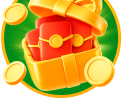
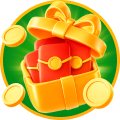
原型：文字样式（字号/粗细/颜色）、布局参数自定义、底部导航中间大图标补全
Claude-Session: https://claude.ai/code/session_01DzgfanUjv3RiG8JrrSj5xx

diff --git a/prototype/js/editor.js b/prototype/js/editor.js
@@ -293,14 +293,14 @@
       if (baseName(id) === 'gamemenu' && D.m.gamemenu.style === 'side' && nx && baseName(nx) === 'gamecards') { body += `<div class="cl-games">${modWrap(id, modHtml(id))}${modWrap(nx, modHtml(nx))}</div>`; k++; continue; }
       body += modWrap(id, modHtml(id));
     }
-    const topPx = D.hidden.topbar ? 0 : D.tb.h / 2, bnPx = D.hidden.bottomnav ? 0 : BNAV_PX[D.m.bottomnav.h] || 55;
+    const topPx = D.hidden.topbar ? 0 : D.tb.h / 2, bnPx = D.hidden.bottomnav ? 0 : BNAV_PX[D.m.bottomnav.h] || (+D.m.bottomnav.h / 2) || 55;
     const top = D.hidden.topbar ? '' : modWrap('topbar', h5Topbar(), { top: true });
-    const bnav = D.hidden.bottomnav ? '' : `<div class="h5-bnav mod ${window.MP.bnavCls()} ${E.sel === 'bottomnav' ? 'is-sel' : ''}" data-mod="bottomnav" data-act="selMod" data-arg="bottomnav">${window.MP.bnav()}${E.sel === 'bottomnav' && !mobileEd() ? `<span class="sel-label">${esc(modName('bottomnav'))}</span>${selToolbar('bottomnav')}` : ''}${window.AD ? window.AD.modMask('bottomnav') : ''}</div>`;
+    const bnav = D.hidden.bottomnav ? '' : `<div class="h5-bnav mod ${window.MP.bnavCls()} ${E.sel === 'bottomnav' ? 'is-sel' : ''}" style="height:${bnPx}px" data-mod="bottomnav" data-act="selMod" data-arg="bottomnav">${window.MP.bnav()}${E.sel === 'bottomnav' && !mobileEd() ? `<span class="sel-label">${esc(modName('bottomnav'))}</span>${selToolbar('bottomnav')}` : ''}${window.AD ? window.AD.modMask('bottomnav') : ''}</div>`;
     const side = E.h5side && !D.hidden.sidebar ? `<div class="h5-side ${D.side}" data-act="h5SideClose" data-stop>${window.MP.side()}${window.AD ? window.AD.modMask('sidebar') : ''}</div>` : '';
     // ED-13：画布按页面高度显示，1334 处画首屏线
     const minBody = Math.max(0, D.height / 2 - topPx - bnPx);
     const fold = opts.noFold ? '' : `<div class="h5-fold" style="top:${667}px"><span>${t('ed/fold-line')}</span></div>`;
-    return `<div class="h5 ${D.iconStyle ? 'ics-' + D.iconStyle : ''}" style="${themeStyle()}${opts.style || ''}">${top}<div class="h5-body" ${opts.measure ? 'data-measure' : ''} data-top="${topPx}" data-bn="${bnPx}" style="min-height:${minBody}px">${body}</div>${bnav}${fold}${side}</div>`;
+    return `<div class="h5 ${D.iconStyle ? 'ics-' + D.iconStyle : ''}" style="${themeStyle()}${opts.style || ''}">${txtCss()}${top}<div class="h5-body" ${opts.measure ? 'data-measure' : ''} data-top="${topPx}" data-bn="${bnPx}" style="min-height:${minBody}px">${body}</div>${bnav}${fold}${side}</div>`;
   }
   // 内容高度（750 稿单位）：渲染后量一次，变了再渲染
   window.AFTER_RENDER.push(() => {
@@ -432,14 +432,27 @@
         ${B.slides.length < 5 ? `<button class="btn btn-outline btn-sm" style="margin-top:8px" data-act="addSlide">${ic('plus', 'ic-16')}${t('ed/add-slide')}</button>` : ''}<div class="p-note">${t('mp/drag-hint')}</div></div>
       <div class="p-sec"><div class="lab">${t('ed/indicator')}</div><div class="ind-opts">${IND.map((v) => `<button class="ind-opt ${indOf(B.ind) === v ? 'is-on' : ''}" data-act="bannerInd" data-arg="${v}"><span class="ind-prev">${v === 'none' ? `<small>${t('ed/ind-none')}</small>` : `<span class="h5-ind ${v}">${[0, 1, 2, 3, 4].map((k) => `<i class="${k === 2 ? 'on' : ''}"></i>`).join('')}</span>`}</span></button>`).join('')}</div><div class="p-note">${t('ed/ind-note')}</div></div>`;
   }
-  function pxSeg(vals, cur, act, labels) {
-    return `${segBtns(vals.map((v, i) => ({ v: String(v), label: labels ? labels[i] : v + ' px' })), String(cur), act)}`;
+  function pxSeg(vals, cur, act, labels, rng) {
+    return `${segBtns(vals.map((v, i) => ({ v: String(v), label: labels ? labels[i] : v + ' px' })), String(cur), act)}${pxCustom(vals, cur, act, rng)}`;
   }
+  // 布局参数的「自定义」（Waydon 2026-11-26）：档位之外可直接输入数值，回车或失焦生效，越界自动夹到范围内
+  function pxCustom(vals, cur, act, rng) {
+    const [min, max, unit] = rng || [0, 200, 'px'];
+    const on = !vals.map(Number).includes(+cur);
+    return `<label class="px-custom ${on ? 'is-on' : ''}"><span>${t('ed/custom')}</span><input class="input" type="number" inputmode="numeric" min="${min}" max="${max}" step="1" value="${esc(String(cur))}" data-pxact="${act}" data-min="${min}" data-max="${max}"><em>${unit}</em><small>${min}–${max}</small></label>`;
+  }
+  document.addEventListener('change', (e) => {
+    const el = e.target; if (!el.matches || !el.matches('[data-pxact]')) return;
+    let n = Math.round(+el.value); if (!Number.isFinite(n)) { window.render(); return; }
+    const min = +el.dataset.min, max = +el.dataset.max; if (n < min || n > max) { n = Math.max(min, Math.min(max, n)); window.toast(t('ed/custom-clamped', { min, max }), { info: true }); }
+    const fn = A[el.dataset.pxact]; if (fn) fn(String(n)); window.render();
+  });
+  document.addEventListener('keydown', (e) => { if (e.key === 'Enter' && e.target.matches && e.target.matches('[data-pxact]')) e.target.blur(); });
   function bannerLayout() {
     const B = E.D.banner;
     const mk = [8, 16, 24], ck = [0, 8, 16];
-    return `<div class="p-sec"><div class="lab">${t('ed/margin')}<span class="v">${B.margin} px</span></div>${pxSeg(mk, B.margin, 'bannerMargin', [t('ed/s-small'), t('ed/s-medium'), t('ed/s-large')])}<div class="seg-sub">${mk.map((v) => `<span class="${v === B.margin ? 'is-on' : ''}">${v} px</span>`).join('')}</div></div>
-      <div class="p-sec"><div class="lab">${t('ed/corner')}<span class="v">${B.corner} px</span></div>${pxSeg(ck, B.corner, 'bannerCorner', [t('ed/c-none'), t('ed/s-small'), t('ed/s-large')])}<div class="seg-sub">${ck.map((v) => `<span class="${v === B.corner ? 'is-on' : ''}">${v} px</span>`).join('')}</div></div>
+    return `<div class="p-sec"><div class="lab">${t('ed/margin')}<span class="v">${B.margin} px</span></div>${pxSeg(mk, B.margin, 'bannerMargin', [t('ed/s-small'), t('ed/s-medium'), t('ed/s-large')], [0, 64, 'px'])}<div class="seg-sub">${mk.map((v) => `<span class="${v === B.margin ? 'is-on' : ''}">${v} px</span>`).join('')}</div></div>
+      <div class="p-sec"><div class="lab">${t('ed/corner')}<span class="v">${B.corner} px</span></div>${pxSeg(ck, B.corner, 'bannerCorner', [t('ed/c-none'), t('ed/s-small'), t('ed/s-large')], [0, 60, 'px'])}<div class="seg-sub">${ck.map((v) => `<span class="${v === B.corner ? 'is-on' : ''}">${v} px</span>`).join('')}</div></div>
       <div class="p-sec"><div class="lab">${t('ed/banner-style')}</div>${bannerStyles(B.size)}<div class="p-note">${t('ed/spec-line2', BANNER[B.size])}</div></div>
       <div class="p-note">${ic('lock-fill', 'ic-16')}${t('ed/layout-note')}</div><div class="p-note">${t('ed/unit-750')}</div>`;
   }
@@ -493,7 +506,7 @@
   }
   function tbLayout() {
     const tb = E.D.tb;
-    const sec = (k, lab) => `<div class="p-sec"><div class="lab">${t(lab)}<span class="v">${tb[k]} px</span></div>${pxSeg(TB[k], tb[k], 'tbLayout_' + k)}</div>`;
+    const sec = (k, lab) => `<div class="p-sec"><div class="lab">${t(lab)}<span class="v">${tb[k]} px</span></div>${pxSeg(TB[k], tb[k], 'tbLayout_' + k, null, { h: [60, 160, 'px'], pad: [0, 80, 'px'], gap: [0, 64, 'px'] }[k])}</div>`;
     return sec('h', 'ed/tb-height') + sec('pad', 'ed/tb-padding') + sec('gap', 'ed/tb-gap') + `<div class="p-note">${t('ed/unit-750')}</div>`;
   }
   function tbColor() {
@@ -502,6 +515,50 @@
     const rows = [['bg', 'ed/tb-c-bg'], ['text', 'ed/tb-c-text'], ['search', 'ed/tb-c-search'], ['reg', 'ed/tb-c-reg']];
     return rows.map(([k, lab]) => `<div class="crow"><div class="k">${t(lab)}</div><div class="sws">${TB_SW[k].map((c) => `<button class="sw-btn ${cur[k].toLowerCase() === c ? 'is-on' : ''}" style="background:${c}" data-act="tbColor" data-arg="${k}|${c}"></button>`).join('')}<button class="rainbow ${E.picker && E.picker.tbRow === k ? 'is-on' : ''}" data-act="pickTb" data-arg="${k}"></button></div>${E.picker && E.picker.tbRow === k ? pickerHtml('in-panel', t(lab)) : ''}</div>`).join('') + `<div class="p-note">${t('ed/tb-c-note')}</div>`;
   }
+  // ---------- 文字样式（Waydon 2026-11-26：有文字的地方都能调字号 / 粗细 / 颜色） ----------
+  // [元素 ID, 名称 key, 字号/粗细选择器, 颜色选择器(选中态不改色), 默认字号(CSS px，=750 稿÷2), 默认粗细]
+  const TXT = {
+    topbar: [['tb.search', 'tx/tb-search', '.h5-top .srch-cl small', '.h5-top .srch-cl', 10, 400]],
+    notice: [['notice.text', 'tx/notice-text', '.cl-notice .mq', '.cl-notice .mq', 12, 400]],
+    midnav: [['midnav.btn', 'tx/midnav-btn', '.cl-user.out span', '.cl-user.out .lg', 12, 400], ['midnav.user', 'tx/midnav-user', '.cl-user .u b', '.cl-user .u b', 11, 500], ['midnav.bal', 'tx/midnav-bal', '.cl-user .bl b', '.cl-user .bl b', 11, 400], ['midnav.name', 'tx/midnav-name', '.cl-ent .it .nm', '.cl-ent .it .nm', 11, 400]],
+    gamemenu: [['gamemenu.name', 'tx/gamemenu-name', '.cl-gm > span b, .h5-gm > span', '.cl-gm > span:not(.on) b, .h5-gm > span:not(.on)', 12.5, 400]],
+    gamecards: [['gamecards.tab', 'tx/gamecards-tab', '.cl-gc .tabs span', '.cl-gc .tabs span:not(.on)', 13, 400], ['gamecards.name', 'tx/gamecards-name', '.cl-gc .nm, .h5-gc .c', '.cl-gc .nm, .h5-gc .c', 11.5, 400], ['gamecards.more', 'tx/gamecards-more', '.cl-gc .more', '.cl-gc .more', 12, 400]],
+    bottomnav: [['bottomnav.name', 'tx/bottomnav-name', '.h5-bnav .it', '.h5-bnav .it:not(.on)', 10, 400]],
+  };
+  const TX_ALL = Object.values(TXT).flat();
+  const TX_W = [400, 500, 700];
+  const txOf = (id) => ((E.D.txt || {})[id]) || {};
+  function txtCss() {
+    const T = E.D.txt || {}; let css = '';
+    for (const [id, , sel, csel] of TX_ALL) {
+      const v = T[id]; if (!v) continue;
+      const scope = (q) => q.split(',').map((x) => '.h5 ' + x.trim()).join(',');
+      if (v.s || v.w) css += `${scope(sel)}{${v.s ? `font-size:${v.s}px;` : ''}${v.w ? `font-weight:${v.w};` : ''}}`;
+      if (v.c) css += `${scope(csel)}{color:${v.c}}`;
+    }
+    return css ? `<style>${css}</style>` : '';
+  }
+  function txtSec(b) {
+    const els = TXT[b]; if (!els) return '';
+    const th = liveTheme().th;
+    const sw = [th.lead, th.neutral_1, th.neutral_2, th.primary, th.accent_2, th.accent_3, '#ffffff'].map((c) => c.toLowerCase()).filter((c, i, a) => a.indexOf(c) === i);
+    const rows = els.map(([id, k, , , ds, dw]) => {
+      const v = txOf(id), size = v.s || ds, w = v.w || dw, c = (v.c || '').toLowerCase();
+      const changed = v.s || v.w || v.c;
+      return `<div class="tx-row"><div class="tx-hd"><b>${t(k)}</b>${changed ? `<button class="tx-reset" data-act="txReset" data-arg="${id}">${ic('arrow-counter-clockwise', 'ic-16')}${t('tx/reset')}</button>` : ''}</div>
+        <div class="tx-bar"><span class="tx-size"><button data-act="txSize" data-arg="${id}|-1" ${size <= 8 ? 'disabled' : ''} aria-label="-">${ic('minus', 'ic-16')}</button><em>${size * 2}</em><button data-act="txSize" data-arg="${id}|1" ${size >= 24 ? 'disabled' : ''} aria-label="+">${ic('plus', 'ic-16')}</button></span>
+        <span class="tx-w">${TX_W.map((x) => `<button class="${w === x ? 'is-on' : ''}" style="font-weight:${x}" data-act="txWeight" data-arg="${id}|${x}">${t('tx/w-' + x)}</button>`).join('')}</span></div>
+        <div class="tx-colors"><button class="tx-auto ${c ? '' : 'is-on'}" data-act="txColor" data-arg="${id}|" title="${esc(t('tx/c-auto'))}">${t('tx/c-auto')}</button>${sw.map((x) => `<button class="sw-btn ${c === x ? 'is-on' : ''}" style="background:${x}" data-act="txColor" data-arg="${id}|${x}"></button>`).join('')}<label class="rainbow tx-custom ${c && !sw.includes(c) ? 'is-on' : ''}" title="${esc(t('tx/c-custom'))}"><input type="color" data-txcolor="${id}" value="${c || '#333333'}"></label></div></div>`;
+    }).join('');
+    return `<div class="p-sec tx-sec"><div class="lab">${t('tx/title')}</div>${rows}<div class="p-note">${t('tx/note')}</div></div>`;
+  }
+  const txSet = (id, k, v) => { commit(() => { E.D.txt = E.D.txt || {}; const o = Object.assign({}, E.D.txt[id]); if (v == null || v === '') delete o[k]; else o[k] = v; if (Object.keys(o).length) E.D.txt[id] = o; else delete E.D.txt[id]; }); };
+  const txDef = (id) => TX_ALL.find((x) => x[0] === id);
+  A.txSize = (arg) => { const [id, d] = arg.split('|'); const df = txDef(id); if (!df) return false; const cur = txOf(id).s || df[4]; const n = Math.max(8, Math.min(24, cur + (+d))); txSet(id, 's', n === df[4] ? null : n); };
+  A.txWeight = (arg) => { const [id, w] = arg.split('|'); const df = txDef(id); if (!df) return false; txSet(id, 'w', +w === df[5] ? null : +w); };
+  A.txColor = (arg) => { const i = arg.indexOf('|'); txSet(arg.slice(0, i), 'c', arg.slice(i + 1) || null); };
+  A.txReset = (id) => { commit(() => { if (E.D.txt) delete E.D.txt[id]; }); };
+  document.addEventListener('change', (e) => { const el = e.target; if (el.matches && el.matches('[data-txcolor]') && /^#[0-9a-f]{6}$/i.test(el.value)) { txSet(el.dataset.txcolor, 'c', el.value.toLowerCase()); window.render(); } });
   function modulePanel(id) {
     const b = baseName(id);
     if (b === 'banner' && E.ai) return aiPanel();
@@ -511,8 +568,8 @@
     const head = `<h2 class="p-title">${esc(modName(id))}${adBtn}</h2>`;
     const pcN = window.PC && window.PC.panelNote ? window.PC.panelNote(id) : '';
     if (b === 'banner') return head + tabs3(E.tab) + (E.tab === 'content' ? bannerContent() : E.tab === 'layout' ? bannerLayout() : bannerColor());
-    if (b === 'topbar') return head + tabs3(E.tab) + (E.tab === 'content' ? tbContent() : E.tab === 'layout' ? tbLayout() : tbColor());
-    if (window.MP.has(b)) return head + pcN + tabs3(E.tab) + window.MP.panel(b, E.tab);
+    if (b === 'topbar') return head + tabs3(E.tab) + (E.tab === 'content' ? tbContent() + txtSec(b) : E.tab === 'layout' ? tbLayout() : tbColor());
+    if (window.MP.has(b)) return head + pcN + tabs3(E.tab) + window.MP.panel(b, E.tab) + (E.tab === 'content' ? txtSec(b) : '');
     return head + window.empty('wrench-fill', t('ed/todo-title'), t('ed/todo-desc'));
   }
   function rightPanel() { if (E.adp && !E.sel && window.AD) return window.AD.edPanel(); return E.sel ? modulePanel(E.sel) : pageSettings(); }
@@ -1247,7 +1304,7 @@
     if (E.palOpen) { E.palOpen = false; }
   }
 
-  window.EDX = { E, commit, save, liveTheme, themeStyle, modWrap, selToolbar, modHtml, pickerHtml, segBtns: (...a) => segBtns(...a), pxSeg: (...a) => pxSeg(...a), moreBtn: (...a) => moreBtn(...a), uploadUI: (...a) => uploadUI(...a), mobileEd, baseName, modName, checks, afford, pay, fail, topup, notice, undoOpt, inkOn,
+  window.EDX = { E, commit, save, liveTheme, themeStyle, modWrap, selToolbar, modHtml, pickerHtml, segBtns: (...a) => segBtns(...a), pxSeg: (...a) => pxSeg(...a), pxCustom: (...a) => pxCustom(...a), moreBtn: (...a) => moreBtn(...a), uploadUI: (...a) => uploadUI(...a), mobileEd, baseName, modName, checks, afford, pay, fail, topup, notice, undoOpt, inkOn,
     // AD：AI 首页设计用（按给定设计数据渲染迷你预览 h5For、默认设计、配色工具）
     h5For, defaultDesign, preset, baseOf, customCount, PRESETS, KEYS, SUGGEST, BANNER, MODS, hex2hsv, hsv2hex, fixSlide, persist };
   window.VIEWS.editor = function () { if (E.loading) return loading(); return mobileEd() ? mobile() : desktop(); };

diff --git a/prototype/js/i18n.js b/prototype/js/i18n.js
@@ -185,6 +185,27 @@ window.I18N = {
   'ed/upload': ['上传', '上傳', 'Upload', 'Tải lên'],
   'ed/library': ['素材库', '素材庫', 'Library', 'Thư viện'],
   'ed/banner-spec': ['Banner 规格', 'Banner 規格', 'Banner size', 'Kích thước banner'],
+  'ed/custom': ['自定义', '自訂', 'Custom', 'Tùy chỉnh'],
+  'ed/custom-clamped': ['已调整到可用范围 {min}–{max}', '已調整到可用範圍 {min}–{max}', 'Adjusted to the allowed range {min}–{max}', 'Đã chỉnh về khoảng {min}–{max}'],
+  'tx/title': ['文字样式', '文字樣式', 'Text style', 'Kiểu chữ'],
+  'tx/note': ['字号按 750 设计稿标注；颜色选「默认」跟随配色，选中态文字颜色不变', '字號按 750 設計稿標註；顏色選「預設」跟隨配色，選中態文字顏色不變', 'Sizes are in 750 design units. "Default" follows the palette; selected-state text keeps its color.', 'Cỡ chữ theo bản 750; "Mặc định" theo bảng màu; chữ ở trạng thái chọn giữ màu.'],
+  'tx/reset': ['恢复', '恢復', 'Reset', 'Đặt lại'],
+  'tx/w-400': ['常规', '常規', 'Regular', 'Thường'],
+  'tx/w-500': ['中等', '中等', 'Medium', 'Vừa'],
+  'tx/w-700': ['粗体', '粗體', 'Bold', 'Đậm'],
+  'tx/c-auto': ['默认', '預設', 'Default', 'Mặc định'],
+  'tx/c-custom': ['自定义颜色', '自訂顏色', 'Custom color', 'Màu tùy chỉnh'],
+  'tx/tb-search': ['搜索文字', '搜尋文字', 'Search label', 'Chữ tìm kiếm'],
+  'tx/notice-text': ['公告文字', '公告文字', 'Notice text', 'Chữ thông báo'],
+  'tx/midnav-btn': ['登录 / 注册按钮', '登入 / 註冊按鈕', 'Sign-in / sign-up buttons', 'Nút đăng nhập / đăng ký'],
+  'tx/midnav-user': ['用户名', '用戶名', 'Username', 'Tên người dùng'],
+  'tx/midnav-bal': ['余额', '餘額', 'Balance', 'Số dư'],
+  'tx/midnav-name': ['入口名称', '入口名稱', 'Shortcut names', 'Tên lối tắt'],
+  'tx/gamemenu-name': ['分类名称', '分類名稱', 'Category names', 'Tên danh mục'],
+  'tx/gamecards-tab': ['页签（热门/最近/收藏）', '頁籤（熱門/最近/收藏）', 'Tabs (Hot/Recent/Favorites)', 'Tab (Hot/Gần đây/Yêu thích)'],
+  'tx/gamecards-name': ['游戏名称', '遊戲名稱', 'Game names', 'Tên trò chơi'],
+  'tx/gamecards-more': ['更多游戏 / 展开', '更多遊戲 / 展開', 'More games / Expand', 'Thêm trò chơi / Mở rộng'],
+  'tx/bottomnav-name': ['导航文字', '導航文字', 'Nav labels', 'Chữ điều hướng'],
   'ed/banner-style': ['Banner 样式', 'Banner 樣式', 'Banner style', 'Kiểu banner'],
   'ed/spec-line2': ['上传统一 {w}×{h} · 页面显示 {dw}×{dh}（750 稿）', '上傳統一 {w}×{h} · 頁面顯示 {dw}×{dh}（750 稿）', 'Upload {w}×{h} for all styles · shown at {dw}×{dh} (750 design)', 'Tải lên {w}×{h} · hiển thị {dw}×{dh} (bản 750)'],
   'ed/spec-line': ['规范 {w}×{h} · 页面显示 {dw}×{dh}', '規範 {w}×{h} · 頁面顯示 {dw}×{dh}', 'Spec {w}×{h} · shown at {dw}×{dh}', 'Chuẩn {w}×{h} · hiển thị {dw}×{dh}'],

diff --git a/prototype/css/editor.css b/prototype/css/editor.css
@@ -856,3 +856,33 @@ body:has(.pc-mfloat) .proto-bar { bottom: calc(76px + 52px + env(safe-area-inset
 .bs-opt .bs-prev i { display: block; background: center / cover; border-radius: 2px; }
 .bs-opt b { font-size: 12px; font-weight: 500; margin-top: 2px; }
 .bs-opt small { font-size: 10px; color: var(--text-3); white-space: nowrap; }
+/* 文字样式（字号 / 粗细 / 颜色） */
+.tx-row { padding: 10px 12px; border-radius: 12px; background: var(--fill-3); display: flex; flex-direction: column; gap: 8px; }
+.tx-row + .tx-row { margin-top: 8px; }
+.tx-hd { display: flex; align-items: center; gap: 8px; font-size: 13px; }
+.tx-hd b { font-weight: 500; flex: 1; min-width: 0; overflow: hidden; text-overflow: ellipsis; white-space: nowrap; }
+.tx-reset { display: inline-flex; align-items: center; gap: 4px; font-size: 12px; color: var(--brand); flex: none; }
+.tx-bar { display: flex; gap: 8px; align-items: center; flex-wrap: wrap; }
+.tx-size { display: inline-flex; align-items: center; height: 30px; border-radius: 8px; background: var(--bg-surface); border: var(--stroke-thin) solid var(--border); flex: none; }
+.tx-size button { width: 28px; height: 28px; display: flex; align-items: center; justify-content: center; color: var(--text); }
+.tx-size button:disabled { opacity: .3; }
+.tx-size em { font-style: normal; min-width: 26px; text-align: center; font-size: 13px; font-variant-numeric: tabular-nums; }
+.tx-w { display: inline-flex; flex: 1; min-width: 150px; height: 30px; padding: 2px; border-radius: 8px; background: var(--bg-surface); border: var(--stroke-thin) solid var(--border); }
+.tx-w button { flex: 1; border-radius: 6px; font-size: 12px; color: var(--text-2); white-space: nowrap; }
+.tx-w button.is-on { background: var(--brand-subtle, #0a84ff26); color: var(--brand); }
+.tx-colors { display: flex; align-items: center; gap: 6px; flex-wrap: wrap; }
+.tx-colors .sw-btn { width: 22px; height: 22px; }
+.tx-auto { height: 22px; padding: 0 8px; border-radius: 11px; font-size: 11px; background: var(--bg-surface); border: var(--stroke-thin) solid var(--border); color: var(--text-2); }
+.tx-auto.is-on { border-color: var(--brand); color: var(--brand); }
+.tx-custom { position: relative; width: 22px; height: 22px; border-radius: 6px; overflow: hidden; cursor: pointer; flex: none; }
+.tx-custom input { position: absolute; inset: 0; opacity: 0; cursor: pointer; width: 100%; height: 100%; }
+/* 布局参数「自定义」输入 */
+.px-custom { display: flex; align-items: center; gap: 8px; margin-top: 8px; font-size: 12px; color: var(--text-2); }
+.px-custom > span { flex: none; }
+.px-custom .input { width: 76px; height: 30px; padding: 0 8px; font-size: 13px; }
+.px-custom em { font-style: normal; color: var(--text-3); }
+.px-custom small { margin-left: auto; color: var(--text-3); font-size: 11px; }
+.px-custom.is-on > span { color: var(--brand); font-weight: 500; }
+.px-custom.is-on .input { border-color: var(--brand); }
+html:not([lang^="zh"]) .cl-gm > span { letter-spacing: 0; font-size: 11px; gap: 3px; padding: 0 4px; }
+.h5-bnav .seltool { top: auto; bottom: 0; }

diff --git a/prototype/js/modpanels.js b/prototype/js/modpanels.js
@@ -66,7 +66,9 @@
   const seg = (opts, cur, act) => X().segBtns(opts, String(cur), act);
   const sec = (lab, body, v) => `<div class="p-sec"><div class="lab">${lab}${v != null ? `<span class="v">${v}</span>` : ''}</div>${body}</div>`;
   const note = (k, p) => `<div class="p-note">${t(k, p)}</div>`;
-  const px = (b, k, vals, labels) => sec(labels.title, seg(vals.map((v, i) => ({ v: String(v), label: labels.opts ? labels.opts[i] : v + (labels.unit || ' px') })), M(b)[k], `mpSet_${b}_${k}`), M(b)[k] + (labels.unit || ' px'));
+  // 每个档位参数都带「自定义」输入（范围按参数）
+  const PX_RNG = { margin: [0, 64], corner: [0, 60], per: [3, 6], size: [48, 160], gap: [0, 64], width: [40, 90], h: [80, 160], cols: [2, 5] };
+  const px = (b, k, vals, labels) => { const u = labels.unit == null ? 'px' : labels.unit.trim(); const r = PX_RNG[k] || [0, 200]; return sec(labels.title, seg(vals.map((v, i) => ({ v: String(v), label: labels.opts ? labels.opts[i] : v + (labels.unit || ' px') })), M(b)[k], `mpSet_${b}_${k}`) + X().pxCustom(vals, M(b)[k], `mpSet_${b}_${k}`, [r[0], r[1], u]), M(b)[k] + (labels.unit || ' px')); };
   const toggle = (on, act, arg, label) => `<button class="tg-row" data-act="${act}" data-arg="${arg}"><span>${label}</span><span class="switch ${on ? 'is-on' : ''}"><i></i></span></button>`;
   function list(b, render) {
     const R = X().E.rn;

diff --git a/docs/remaining-work.md b/docs/remaining-work.md
@@ -46,6 +46,8 @@
 5. AI 首页设计（aidesign.js）生成的设计仍按旧模块（含彩金池/页脚/侧边栏）出稿，需要改成经典蓝白结构。
 6. PC 帐户栏的网格固定 10 列，入口只有 4 个时偏左。
 7. Banner 已照真实组件：规格 大 750×340 / 通用 708×208 / 中 708×208 / 小 160×101（750 稿），指示器 4 种样式叠在图片底部。四种规格只是前端显示尺寸不同，后台上传统一 1020×300（Waydon 2026-11-26 确认）。
+9. 文字样式（Waydon 2026-11-26）：各模块「内容」页底部「文字样式」，每个文字元素可调字号（按 750 稿，±2）、粗细（常规/中等/粗体）、颜色（默认跟配色 / 主题色块 / 自定义取色）。数据存 `E.D.txt`，画布用 `<style>` 注入。**待办**：PC 画布未套用；公告栏还不是逐字富文本（只能整段改样式）；导出 Figma 时要把文字样式写进组件。
+10. 布局参数「自定义」：所有档位参数下方可直接输入数值（各参数有范围，越界自动夹回并提示）。底部导航高度自定义后画布按 h/2 显示。
 8. 选中模块的悬浮编辑工具已改为模块右侧竖排（Waydon 2026-11-26）；游戏分类与卡片并排时工具条放到整页右侧。
 
 **需要 Waydon 补的资源 / 拍板**（审查真实 UI 时发现）
